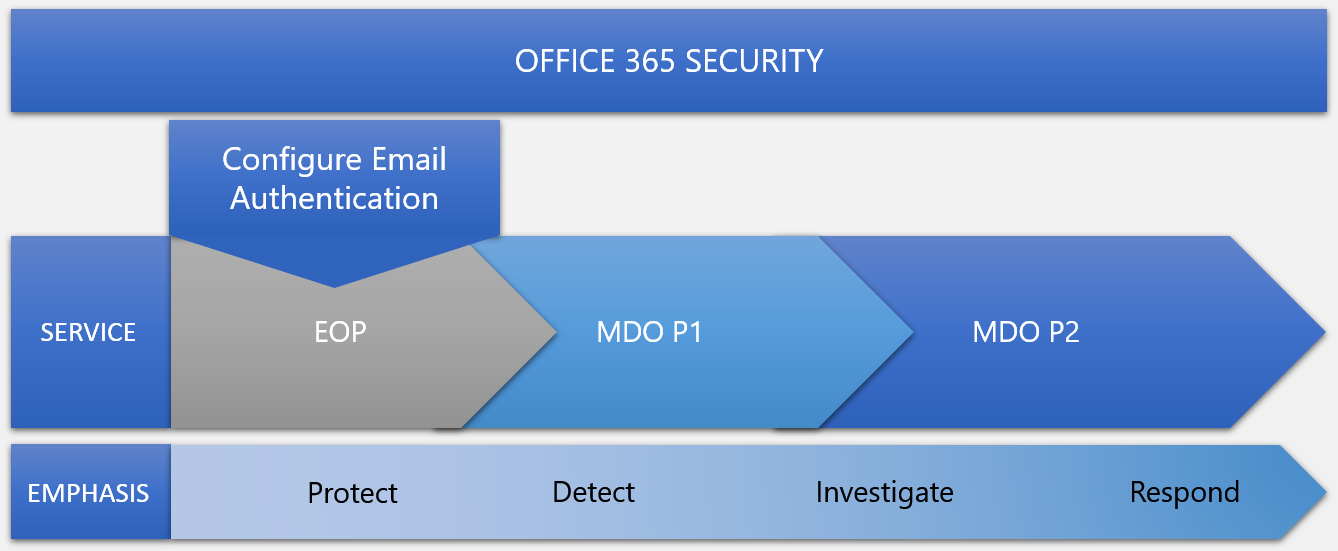
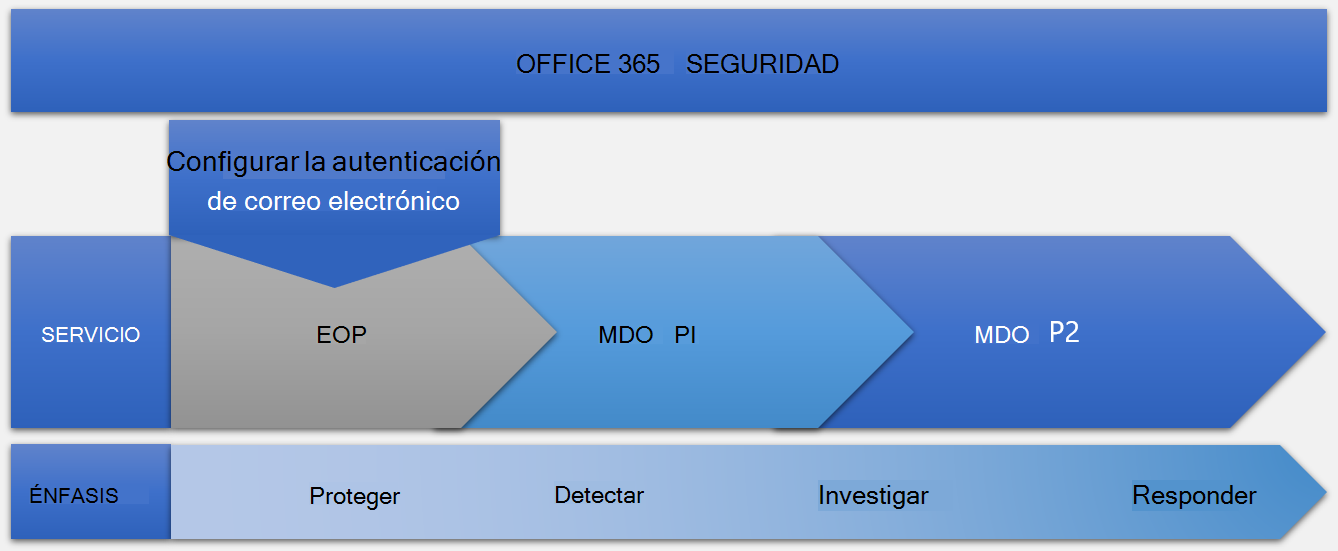
commit translated contents

diff --git a/microsoft-365/admin/setup/add-domain.md b/microsoft-365/admin/setup/add-domain.md
@@ -27,10 +27,10 @@ search.appverid:
 - MET150
 - MOE150
 ms.assetid: 6383f56d-3d09-4dcb-9b41-b5f5a5efd611
-description: Use el Asistente para la instalación para agregar el dominio Microsoft 365 en el Centro de administración de Microsoft 365 agregando un registro DNS en el host DNS.
+description: Use el Asistente para la instalación para agregar el dominio a Microsoft 365 en el Centro de administración de Microsoft 365 agregando un registro DNS en el host DNS.
 ms.openlocfilehash: fa809486b968c4bc0f8c74e466285ee2ce9ac895
 ms.sourcegitcommit: bdd6ffc6ebe4e6cb212ab22793d9513dae6d798c
-ms.translationtype: MT
+ms.translationtype: HT
 ms.contentlocale: es-ES
 ms.lasthandoff: 03/08/2022
 ms.locfileid: "63321717"
@@ -41,27 +41,27 @@ ms.locfileid: "63321717"
   
 ## <a name="before-you-begin"></a>Antes de empezar
 
-Para agregar, modificar o quitar dominios, debe **ser administrador de** nombres de dominio o administrador **global** de un [plan empresarial o empresarial](https://products.office.com/business/office). Estos cambios afectan a todo el espacio empresarial; *Los administradores personalizados* *o* los usuarios normales no podrán realizar estos cambios.
+Para agregar, modificar o quitar dominios, **debe** ser un administrador **de nombres de dominio** o **administrador global** de un [plan empresarial](https://products.office.com/business/office). Estos cambios afectan a todo el inquilino, los *administradores personalizados* o *usuarios normales* no podrán realizar estos cambios.
 
 > [!TIP]
 > Si necesita ayuda con los pasos que se describen en este tema, considere la posibilidad de [trabajar con un especialista en pequeñas empresas de Microsoft](https://go.microsoft.com/fwlink/?linkid=2186871). Con Business Assist, usted y sus empleados obtienen acceso de forma ininterrumpida a especialistas de pequeñas empresas a medida que hace crecer su negocio, desde la incorporación laboral hasta el uso cotidiano.
 
-## <a name="watch-add-a-domain"></a>Watch: Add a domain
+## <a name="watch-add-a-domain"></a>Ver: Agregar un dominio
 
 > [!VIDEO https://www.microsoft.com/videoplayer/embed/RE4dN8c?autoplay=false]
 
-Es posible que su empresa necesite varios nombres de dominio para fines diferentes. Por ejemplo, es posible que desee agregar una ortografía diferente del nombre de la compañía porque los clientes ya lo están usando y sus comunicaciones no le han llegado.
+Es posible que su empresa necesite varios nombres de dominio para distintos fines. Por ejemplo, es posible que quiera agregar una ortografía diferente del nombre de la empresa porque los clientes ya la están usando y sus comunicaciones no han podido llegarle.
 
-1. En el Centro de administración de Microsoft 365, elija <a href="https://go.microsoft.com/fwlink/p/?linkid=2171997" target="_blank">**Configurar**</a>.
-1. En **Configurar el dominio personalizado**, seleccione **ViewManageAdd** >  >  **domain**.
-1. Escriba el nuevo nombre de dominio que desea agregar y, a continuación, seleccione **Siguiente**.
-1. Inicie sesión en el registrador de dominio y, a continuación, seleccione **Siguiente**.
+1. En el Centro de administración de Microsoft 365, elija <a href="https://go.microsoft.com/fwlink/p/?linkid=2171997" target="_blank">**Configuración**</a>.
+1. En **Configurar el dominio personalizado**, seleccione **Ver** > **Administrar** > **Agregar dominio**.
+1. Escriba el nuevo nombre de dominio que desea agregar y seleccione **Siguiente**.
+1. Inicie sesión en el registrador de dominios y seleccione **Siguiente**.
 1. Elija los servicios para el nuevo dominio.
-1. Seleccione **NextAuthorizeNext** >  >  y, a continuación, **Finalizar**. Se ha agregado el nuevo dominio.
+1. Seleccione **Siguiente** > **Autorizar** > **Siguiente** y **Finalizar**. Ya tiene agregado el nuevo dominio.
 
 ## <a name="add-a-domain"></a>Agregar un dominio
 
-Siga estos pasos para agregar, configurar o seguir configurando un dominio. 
+Siga estos pasos para agregar, configurar o continuar configurando un dominio. 
 
 ::: moniker range="o365-worldwide"
 
@@ -75,61 +75,61 @@ Siga estos pasos para agregar, configurar o seguir configurando un dominio.
 
 ::: moniker-end
     
-2. Vaya a la **página Configuración** >  **Domains**. 
+2. Vaya a la página **Configuración** > **Dominios**. 
 
 3. Seleccione **Agregar dominio**.
     
-4. Escriba el nombre del dominio que desea agregar y, a continuación, seleccione **Siguiente**.
+4. Escriba el nombre del dominio que quiere agregar y seleccione **Siguiente**.
     
-5. Elija cómo desea comprobar que es el propietario del dominio.
+5. Elija cómo quiere comprobar que es el propietario del dominio.
     
-    1. Si el registrador de dominio usa dominio [Conectar](#domain-connect-registrars-integrating-with-microsoft-365)[, Microsoft](../get-help-with-domains/domain-connect.md) configurará los registros automáticamente al tener que iniciar sesión en el registrador y confirmar la conexión a Microsoft 365. Se te devolverá al Centro de administración y Microsoft comprobará automáticamente tu dominio.
-    2. Puede usar un registro TXT para comprobar su dominio. Seleccione esto y **seleccione Siguiente** para ver instrucciones sobre cómo agregar este registro DNS al sitio web del registrador. Esto puede tardar hasta 30 minutos en comprobarse después de agregar el registro. 
-    3. Puede agregar un archivo de texto al sitio web de su dominio. Seleccione y descargue el archivo .txt del asistente para la instalación y, a continuación, cargue el archivo en la carpeta de nivel superior del sitio web. La ruta de acceso al archivo debe ser similar a: `http://mydomain.com/ms39978200.txt`. Confirmaremos que es el propietario del dominio mediante la búsqueda del archivo en su sitio web.
+    1. Si el registrador de dominios usa [Domain Connect](#domain-connect-registrars-integrating-with-microsoft-365), Microsoft [ configurará los registros automáticamente](../get-help-with-domains/domain-connect.md) haciendo que inicie sesión en el registrador y confirme la conexión a Microsoft 365. Volverá al centro de administración y Microsoft comprobará automáticamente su dominio.
+    2. Puede usar un registro TXT para comprobar su dominio. Seleccione esta opción y haga clic en **Siguiente** para ver instrucciones sobre cómo agregar este registro DNS al sitio web de su registrador de dominios. Cuando haya agregado el registro, la comprobación puede tardar hasta 30 minutos.   
+    3. Puede agregar un archivo de texto al sitio web de su dominio. Seleccione y descargue el archivo .txt desde el asistente para la instalación y cargue el archivo en la carpeta de nivel superior del sitio web. La ruta de acceso al archivo debe ser similar a: `http://mydomain.com/ms39978200.txt`. Para confirmar que es el propietario del dominio, buscaremos el archivo en su sitio web.
     
-6. Elija cómo desea realizar los cambios DNS necesarios para que Microsoft use su dominio.
+6. Elija cómo quiere realizar los cambios de DNS necesarios para que Microsoft use su dominio.
     
-    1. Elija **Agregar los registros DNS para mí** si su registrador admite [dominio Conectar](#domain-connect-registrars-integrating-with-microsoft-365) [y Microsoft](../get-help-with-domains/domain-connect.md) configurará los registros automáticamente si inicia sesión en su registrador y confirma la conexión a Microsoft 365.
-    2. Elija **Agregaré los registros DNS** yo mismo si desea adjuntar solo servicios de Microsoft 365 específicos a su dominio o si desea omitir esto por ahora y hacerlo más adelante. **Elija esta opción si sabe exactamente lo que hace.**
+    1. Elija **Agregar los registros DNS para mí** si su registrador admite [Domain Connect](#domain-connect-registrars-integrating-with-microsoft-365) y Microsoft [configurará los registros automáticamente](../get-help-with-domains/domain-connect.md) haciendo que inicie sesión en el registrador y confirme la conexión a Microsoft 365.
+    2. Elija **Agregaré los registros DNS yo mismo** si quiere adjuntar solo servicios específicos de Microsoft 365 a su dominio o si quiere omitir este paso por ahora y hacerlo más adelante. **Elija esta opción si sabe exactamente lo que hace.**
 
-7. Si decide agregar *registros DNS* usted mismo, seleccione Siguiente  y verá una página con todos los registros que necesita agregar al sitio web de registradores para configurar su dominio. 
+7. Si quiere *agregar registros DNS usted mismo*, seleccione **Siguiente** y verá una página con todos los registros que tiene que agregar al sitio web de su registrador para configurar su dominio. 
 
     Si el portal no reconoce el registrador, puede [seguir estas instrucciones generales.](../get-help-with-domains/create-dns-records-at-any-dns-hosting-provider.md)
     
     Si no conoce el proveedor de host DNS o el registrador de dominios de su dominio, vea [Encuentre su registrador de dominios o proveedor de host DNS](../get-help-with-domains/find-your-domain-registrar.md).
     
-    Si desea esperar más tarde, anule la selección de todos los servicios y haga clic en Continuar **, o** en el paso de conexión  de dominio anterior elija Más opciones y seleccione **Omitir esto por ahora**.
+    Si quiere esperar a más tarde, anule la selección de todos los servicios y haga clic en **Continuar** o, en el paso de conexión de dominio anterior, elija **Más opciones** y seleccione **Omitir esto por ahora**.
     
-8. Selecciona **Finalizar** : ya has terminado.
+8. Seleccione **Finalizar**. Ya está todo.
 
 ## <a name="add-or-edit-custom-dns-records"></a>Agregar o editar registros DNS personalizados
 
-Siga los pasos siguientes para agregar un registro personalizado para un sitio web o un servicio de terceros.
+Siga los pasos que se indican a continuación para agregar un registro personalizado para un sitio web o un servicio de terceros.
 
 1. Inicie sesión en el Centro de administración de Microsoft en <a href="https://go.microsoft.com/fwlink/p/?linkid=2024339" target="_blank">https://admin.microsoft.com</a>.
 
-2. Vaya a la **página Configuración**  >  **Domains**.
+2. Vaya a la página **Configuración**  > **Dominios**.
 
 3. En la página **Dominios**, seleccione un dominio. 
     
-4. En **Configuración dns**, seleccione **Registros personalizados**; a continuación **, seleccione Nuevo registro personalizado**.
+4. En **Configuración de DNS**, seleccione **Registros personalizados**; después, seleccione **Nuevo registro personalizado**.
 
-5. Seleccione el tipo de registro DNS que desea agregar y escriba la información del nuevo registro.
+5. Seleccione el tipo de registro DNS que quiere agregar y escriba la información para el nuevo registro.
     
-6. Seleccione **Guardar**.
+6. Haga clic en **Guardar**.
 
-## <a name="registrars-with-domain-connect"></a>Registradores con dominio Conectar
+## <a name="registrars-with-domain-connect"></a>Registradores con Domain Connect
 
-[Los Conectar](https://www.domainconnect.org/) registradores habilitados permiten agregar el dominio a Microsoft 365 en un proceso de tres pasos que tarda minutos. 
+Los registradores habilitados para [Domain Connect](https://www.domainconnect.org/) le permiten agregar el dominio a Microsoft 365 en un proceso de tres pasos que tarda minutos. 
   
-En el asistente, solo confirmaremos que es el propietario del dominio y, a continuación, configuraremos automáticamente los registros de su dominio, de modo que el correo electrónico llegue a Microsoft 365 y otros servicios de Microsoft 365, como Teams, trabajen con su dominio.
+En el asistente, solo confirmaremos que es el propietario del dominio y configuraremos automáticamente los registros del dominio, para lo que el correo electrónico que llega a Microsoft 365 y otros servicios de Microsoft 365, como Teams, funcione con su dominio.
   
 > [!NOTE]
 > Asegúrese de desactivar los bloqueadores de ventanas emergente en el explorador antes de iniciar el Asistente de configuración.
   
-### <a name="domain-connect-registrars-integrating-with-microsoft-365"></a>Registradores Conectar de dominio que se integran con Microsoft 365
+### <a name="domain-connect-registrars-integrating-with-microsoft-365"></a>Registradores de Domain Connect que se integran con Microsoft 365
 
-- [11&amp; IONOS](https://www.1and1.com/)
+- [1&amp;1 IONOS](https://www.1and1.com/)
 - [EuroDNS](https://www.eurodns.com/)
 - [Cloudflare](https://www.cloudflare.com/)
 - [GoDaddy](https://www.godaddy.com/)
@@ -141,29 +141,29 @@ En el asistente, solo confirmaremos que es el propietario del dominio y, a conti
         - [DomainsPricedRight](https://www.domainspricedright.com/products/domain-registration)
         - [DomainRightNow](https://www.domainrightnow.com/)
 
-### <a name="what-happens-to-my-email-and-website"></a>¿Qué sucede con mi correo electrónico y mi sitio web?
+### <a name="what-happens-to-my-email-and-website"></a>¿Qué ocurre con mi correo electrónico y mi sitio web?
 
-Después de finalizar la instalación, el registro MX del dominio se actualiza para que apunte a Microsoft 365 y todo el correo electrónico de su dominio empezará a llegar a Microsoft 365. Asegúrese de que ha agregado usuarios y configurado buzones en Microsoft 365 para todos los usuarios que reciban correo electrónico en su dominio.
+Después de finalizar el proceso de configuración, el registro MX del dominio se actualizará para apuntar a Microsoft 365 y todo el correo electrónico del dominio empezará a llegar a Microsoft 365. Asegúrese de que agregó usuarios y configuró los buzones en Microsoft 365 para todos los usuarios que reciban correo electrónico en el dominio.
   
-Si tiene un sitio web que usa con su empresa, seguirá funcionando como hasta ahora. Los pasos Conectar configuración del dominio no afectan a su sitio web.
+Si tiene un sitio web que usa con su empresa, seguirá funcionando como hasta ahora. Los pasos de configuración de Domain Connect no afectan al sitio web.
 
-### <a name="add-an-onmicrosoftcom-domain"></a>Agregar un dominio onmicrosoft.com usuario
+### <a name="add-an-onmicrosoftcom-domain"></a>Agregar un dominio de onmicrosoft.com
 
-Cada Microsoft 365 organización puede tener hasta tres onmicrosoft.com dominios.
+Cada organización de Microsoft 365 puede tener hasta tres dominios onmicrosoft.com.
 
 > [!NOTE]
-> Debe ser un administrador global o un administrador de nombre de dominio para agregar un dominio.
-> Crear un dominio .onmicrosoft adicional y usarlo como predeterminado no cambiará el nombre de SharePoint Online. Para realizar cambios en el dominio .onmicrosoft SharePoint, tendría que usar la vista previa de cambio de nombre de dominio de [SharePoint](/sharepoint/change-your-sharepoint-domain-name) (actualmente disponible para cualquier inquilino con menos de 1.000 sitios).
-> Si usa servicios de correo Microsoft 365, no se admite la eliminación del dominio inicial .onmicrosoft.
+> Debe ser administrador global o administrador de nombres de dominio para agregar un dominio.
+> Al crear un dominio .onmicrosoft adicional y usarlo como predeterminado, no se cambiará el nombre de SharePoint Online. Para realizar cambios en el dominio de SharePoint de .onmicrosoft, debe usar la [Vista previa de cambio de nombre de dominio de SharePoint](/sharepoint/change-your-sharepoint-domain-name) (disponible actualmente para cualquier espacio empresarial con menos de 1 000 sitios).
+> Si usa servicios de correo de Microsoft 365, no se admite la eliminación del dominio .onmicrosoft inicial.
 
 
-Para agregar un onmicrosoft.com de usuario:
+Para agregar un dominio onmicrosoft.com:
 
-1. Vaya al Centro de administración de Microsoft, **Configuración** >  <a href="https://go.microsoft.com/fwlink/p/?linkid=834818" target="_blank">**Domains**</a>.
+1. Vaya al Centro de administración de Microsoft, **Configuración** > <a href="https://go.microsoft.com/fwlink/p/?linkid=834818" target="_blank">**Dominios**</a>.
 
-2. En la **pestaña Información** general, seleccione **Agregar onmicrosoft.com dominio**.
+2. En la pestaña **Información general**, seleccione **Agregar dominio onmicrosoft.com**.
 
-Puede establecer cualquier dominio que sea de su propiedad como su dominio predeterminado.
+Puede establecer cualquier dominio que posea como dominio predeterminado.
 
 ## <a name="related-content"></a>Contenido relacionado
 

diff --git a/microsoft-365/enterprise/desktop-deployment-center-home.md b/microsoft-365/enterprise/desktop-deployment-center-home.md
@@ -12,31 +12,31 @@ ms.service: o365-solutions
 ms.localizationpriority: medium
 ms.collection: M365-subscription-management
 ms.custom: it-pro
-description: Cómo llegar a los recursos equivalentes al Centro de implementación de escritorio en desuso.
+description: Cómo acceder a los recursos equivalentes al Centro de implementación de escritorio en desuso.
 ms.openlocfilehash: 6a8f08b855393741e6b2d48c40b4f712154ee1a6
 ms.sourcegitcommit: d4b867e37bf741528ded7fb289e4f6847228d2c5
-ms.translationtype: MT
+ms.translationtype: HT
 ms.contentlocale: es-ES
 ms.lasthandoff: 10/06/2021
 ms.locfileid: "60174908"
 ---
 # <a name="desktop-deployment-center-deprecated"></a>Centro de implementación de escritorio (en desuso)
 
-El cuerpo del contenido que comprendía el Centro de implementación de escritorio ha quedado en desuso. 
+El cuerpo del contenido que formaba el Centro de implementación de escritorio ha quedado en desuso. 
 
 Use estos recursos para implementar escritorios modernos:
 
-- [Windows 10 implementación](/windows/deployment/)
+- [Implementación de Windows 10](/windows/deployment/)
 - [Implementar Aplicaciones de Microsoft 365](/deployoffice/deployment-guide-microsoft-365-apps)
 - [Microsoft Intune](/mem/intune/fundamentals/planning-guide)
 - [Directivas de acceso a dispositivos e identidades](../security/office-365-security/microsoft-365-policies-configurations.md)
 
-También puede ver los vídeos de la [serie de implementación de escritorio de Microsoft Mechanics](https://www.aka.ms/watchhowtoshift).
+También puede ver los [vídeos de la serie de implementación de escritorio de Microsoft Mechanics](https://www.aka.ms/watchhowtoshift).
 
-También puede encontrar ayuda para la implementación de escritorio de partners de Microsoft [y FastTrack](https://www.microsoft.com/fasttrack/microsoft-365).
+También puede encontrar ayuda para la implementación de escritorio de asociados de Microsoft y [FastTrack](https://www.microsoft.com/fasttrack/microsoft-365).
 
 ## <a name="windows-and-office-deployment-lab-kit"></a>Kit de laboratorio de implementación para Windows y Office
 
-Este kit le ayuda a planear, probar y validar la implementación y administración de escritorios que ejecutan Windows 10 Enterprise y Aplicaciones Microsoft 365 para empresas. Los laboratorios cubren con Microsoft Endpoint Configuration Manager, Análisis de escritorio, Office personalización, OneDrive, Windows Autopilot y mucho más.
+Este kit está diseñado para ayudarle a planear, probar y validar la implementación y administración de dispositivos que ejecuten Windows 10 Enterprise y Aplicaciones de Microsoft 365 para empresas. Los laboratorios abarcan el uso de Microsoft Endpoint Configuration Manager, Desktop Analytics, la herramienta de personalización de Office, OneDrive, Windows Autopilot y mucho más.
 
-Consulte [Windows y Office Deployment Lab Kit](modern-desktop-deployment-and-management-lab.md) para obtener más información.
+Consulte [Kit de laboratorio de implementación de Windows y Office](modern-desktop-deployment-and-management-lab.md) para más información.
